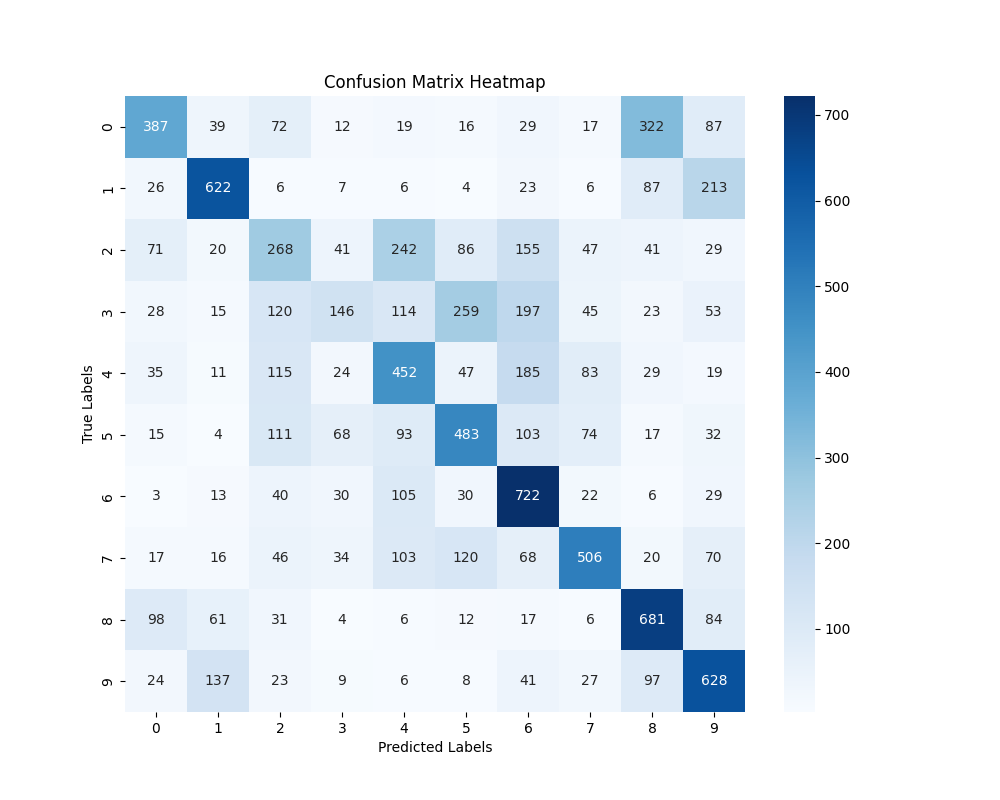
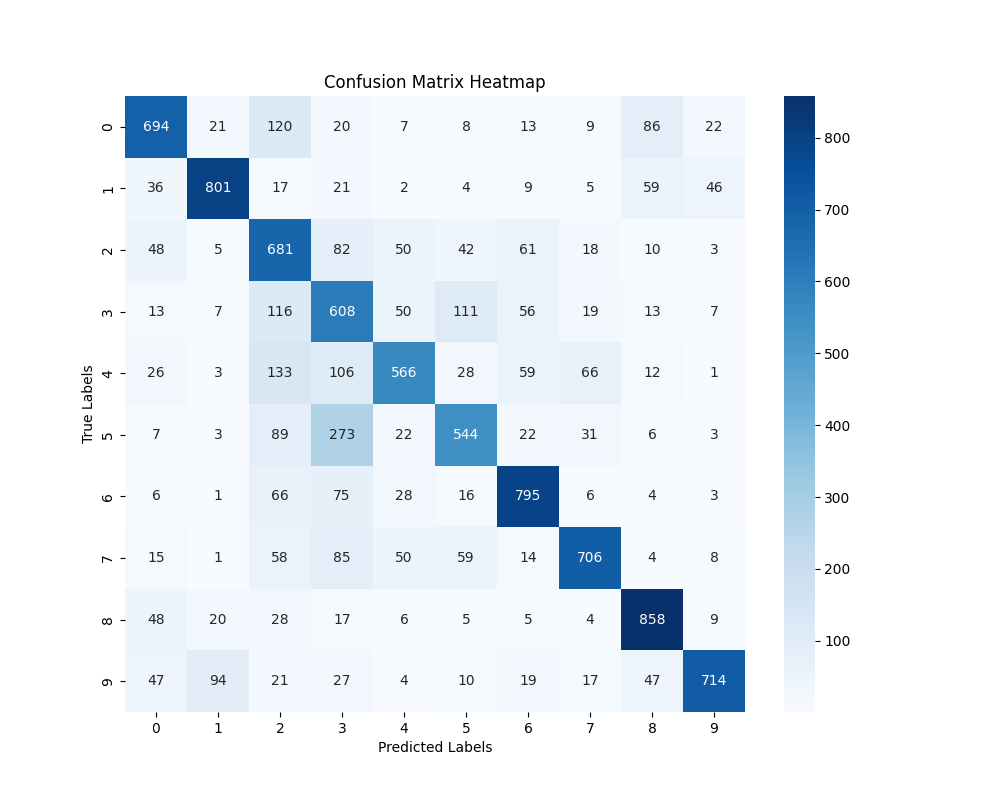
changes to reports readme

diff --git a/reports/README.md b/reports/README.md
@@ -271,9 +271,12 @@ Recommended answer length: 200-300 words + 1 to 3 screenshots.
 
 Example: As seen in the first image we have tracked ... and ... which both inform us about ... in our experiments. As seen in the second image we are also tracking ... and ...
 
- Answer:
-
-
+Answer:
+In Weights and Bias we have 4 graphs, that track the training loss, training accuracy, test loss and test accuracy. We track the parameters batch size, learning rate, amount of epochs and dropout rate. 
+In image 1 we can see, the difference between a dropput rate of 0.2 and 0.5, all other parameters are the same. In this case it does not seem to make a major difference. The model preforms fairly well, both on new and trained data. 
+On the test dataset, which is unseen data for the model. The model with 0.2 dropout rate gets an accuracy of 70 %, which is good compared to the baseline of guessing that would be 10 % as there are 10 classes. With a 0.5 dropout rate the model gets an average test accuracy of 66 %. We can see a increase in train accuracy and a decline in train loss, which indicates that the model learns somehing and becomes better at correctly predicting the class of an image.
+In the graphs we can also see significant fluctuations, this can be explained by the some more diffcult batches or the dropout rate. The test dataset is also smaller, which makes it more prominent. 
+![14](figures/wandb_dropout_rate.png)
 
 ### Question 15
 **Docker is an important tool for creating containerized applications. Explain how you used docker in your experiments/project? Include how you would run your docker images and include a link to one of your docker files.**
